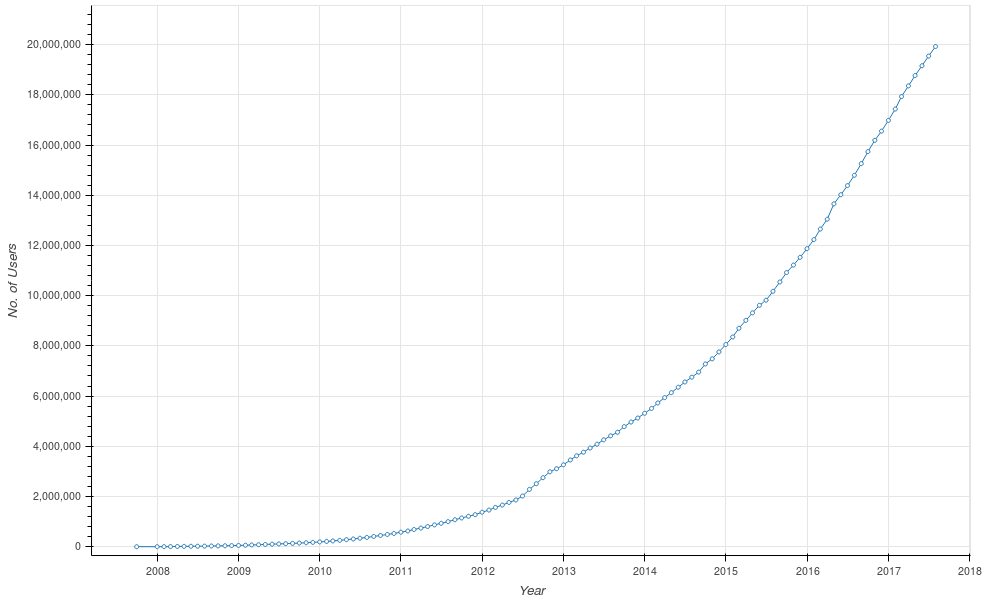
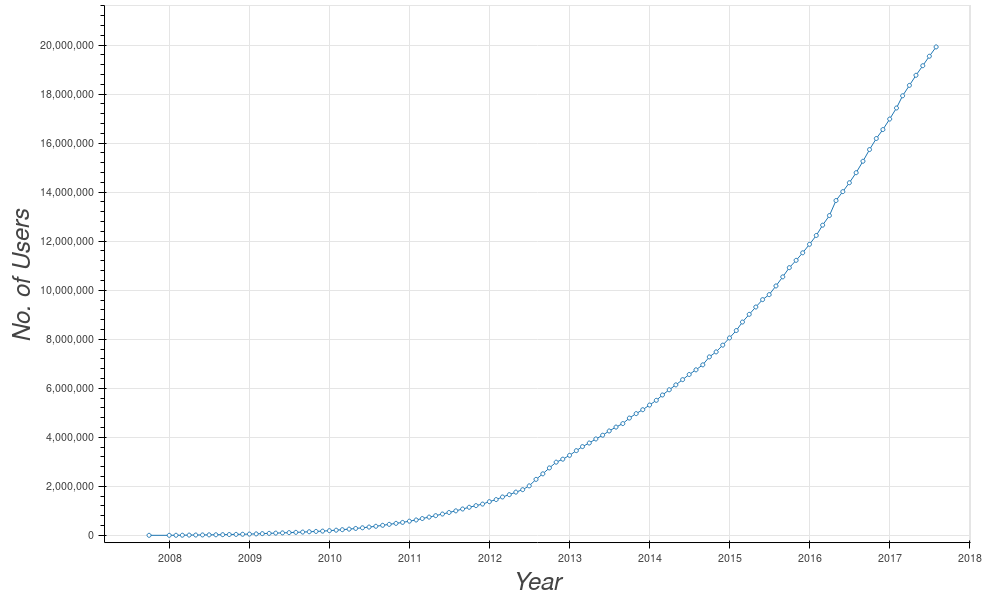
Changed the axis label font size

diff --git a/charts/users-month-year-line.py b/charts/users-month-year-line.py
@@ -35,6 +35,9 @@ p1 = figure(
     width=1000
 )
 
+p1.xaxis.axis_label_text_font_size = "18pt"
+p1.yaxis.axis_label_text_font_size = "18pt"
+
 p1.yaxis[0].formatter = NumeralTickFormatter(format="0,0")
 p1.yaxis[0].ticker.desired_num_ticks = 10
 
